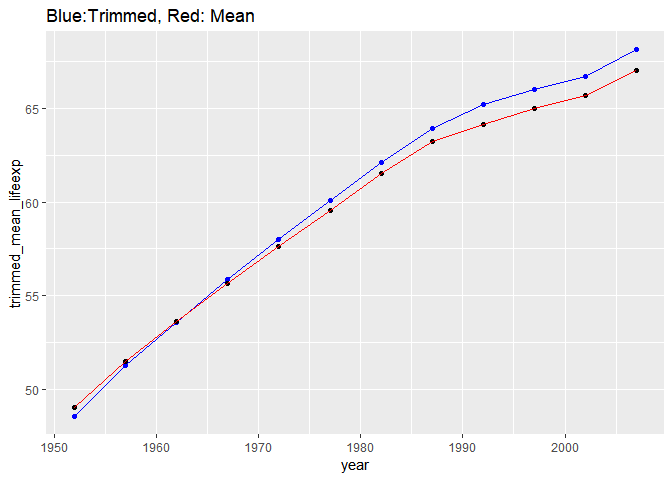
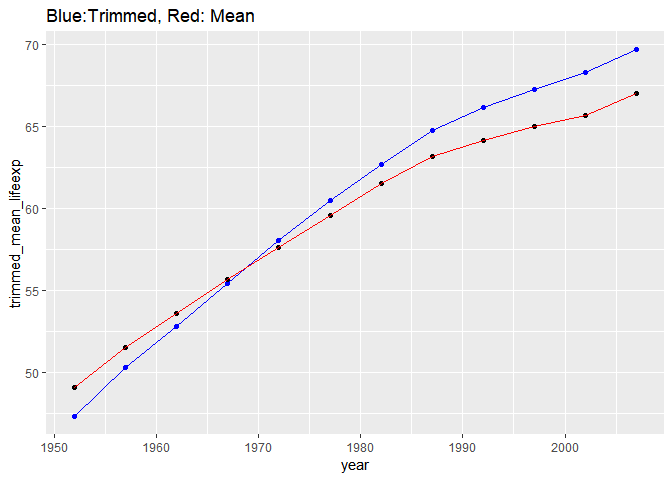
final

diff --git a/hw03_gapminder-chenchenguo.md b/hw03_gapminder-chenchenguo.md
@@ -386,8 +386,9 @@ Oceania
 
 trimmed=gapminder %>% 
   group_by(year) %>% 
-  summarize(mean_lifeexp=mean(lifeExp), trimmed_mean_lifeexp=mean(lifeExp,trim = 0.1)) %>% 
+  summarize(mean_lifeexp=mean(lifeExp), trimmed_mean_lifeexp=mean(lifeExp,trim = 0.25)) %>% 
   arrange(year)
+
 knitr::kable(trimmed) %>% 
   kable_styling(bootstrap_options = "bordered",latex_options = "basic",full_width = F)
 ```
@@ -415,7 +416,7 @@ trimmed\_mean\_lifeexp
 49.05762
 </td>
 <td style="text-align:right;">
-48.57668
+47.33607
 </td>
 </tr>
 <tr>
@@ -426,7 +427,7 @@ trimmed\_mean\_lifeexp
 51.50740
 </td>
 <td style="text-align:right;">
-51.26888
+50.27669
 </td>
 </tr>
 <tr>
@@ -437,7 +438,7 @@ trimmed\_mean\_lifeexp
 53.60925
 </td>
 <td style="text-align:right;">
-53.58075
+52.79151
 </td>
 </tr>
 <tr>
@@ -448,7 +449,7 @@ trimmed\_mean\_lifeexp
 55.67829
 </td>
 <td style="text-align:right;">
-55.86538
+55.43138
 </td>
 </tr>
 <tr>
@@ -459,7 +460,7 @@ trimmed\_mean\_lifeexp
 57.64739
 </td>
 <td style="text-align:right;">
-58.01444
+58.07853
 </td>
 </tr>
 <tr>
@@ -470,7 +471,7 @@ trimmed\_mean\_lifeexp
 59.57016
 </td>
 <td style="text-align:right;">
-60.10206
+60.46878
 </td>
 </tr>
 <tr>
@@ -481,7 +482,7 @@ trimmed\_mean\_lifeexp
 61.53320
 </td>
 <td style="text-align:right;">
-62.11694
+62.70044
 </td>
 </tr>
 <tr>
@@ -492,7 +493,7 @@ trimmed\_mean\_lifeexp
 63.21261
 </td>
 <td style="text-align:right;">
-63.92106
+64.76540
 </td>
 </tr>
 <tr>
@@ -503,7 +504,7 @@ trimmed\_mean\_lifeexp
 64.16034
 </td>
 <td style="text-align:right;">
-65.18519
+66.19274
 </td>
 </tr>
 <tr>
@@ -514,7 +515,7 @@ trimmed\_mean\_lifeexp
 65.01468
 </td>
 <td style="text-align:right;">
-66.01736
+67.25389
 </td>
 </tr>
 <tr>
@@ -525,7 +526,7 @@ trimmed\_mean\_lifeexp
 65.69492
 </td>
 <td style="text-align:right;">
-66.71641
+68.30965
 </td>
 </tr>
 <tr>
@@ -536,7 +537,7 @@ trimmed\_mean\_lifeexp
 67.00742
 </td>
 <td style="text-align:right;">
-68.11489
+69.68886
 </td>
 </tr>
 </tbody>
@@ -557,9 +558,6 @@ weighted=gapminder %>%
   group_by(year) %>% 
   summarize(mean=mean(lifeExp),weighted_mean_life=weighted.mean(lifeExp,pop)) %>% 
   arrange(year)
-
-
-
 
 knitr::kable(weighted) %>% 
   kable_styling(bootstrap_options = "bordered",latex_options = "basic",full_width = F)
